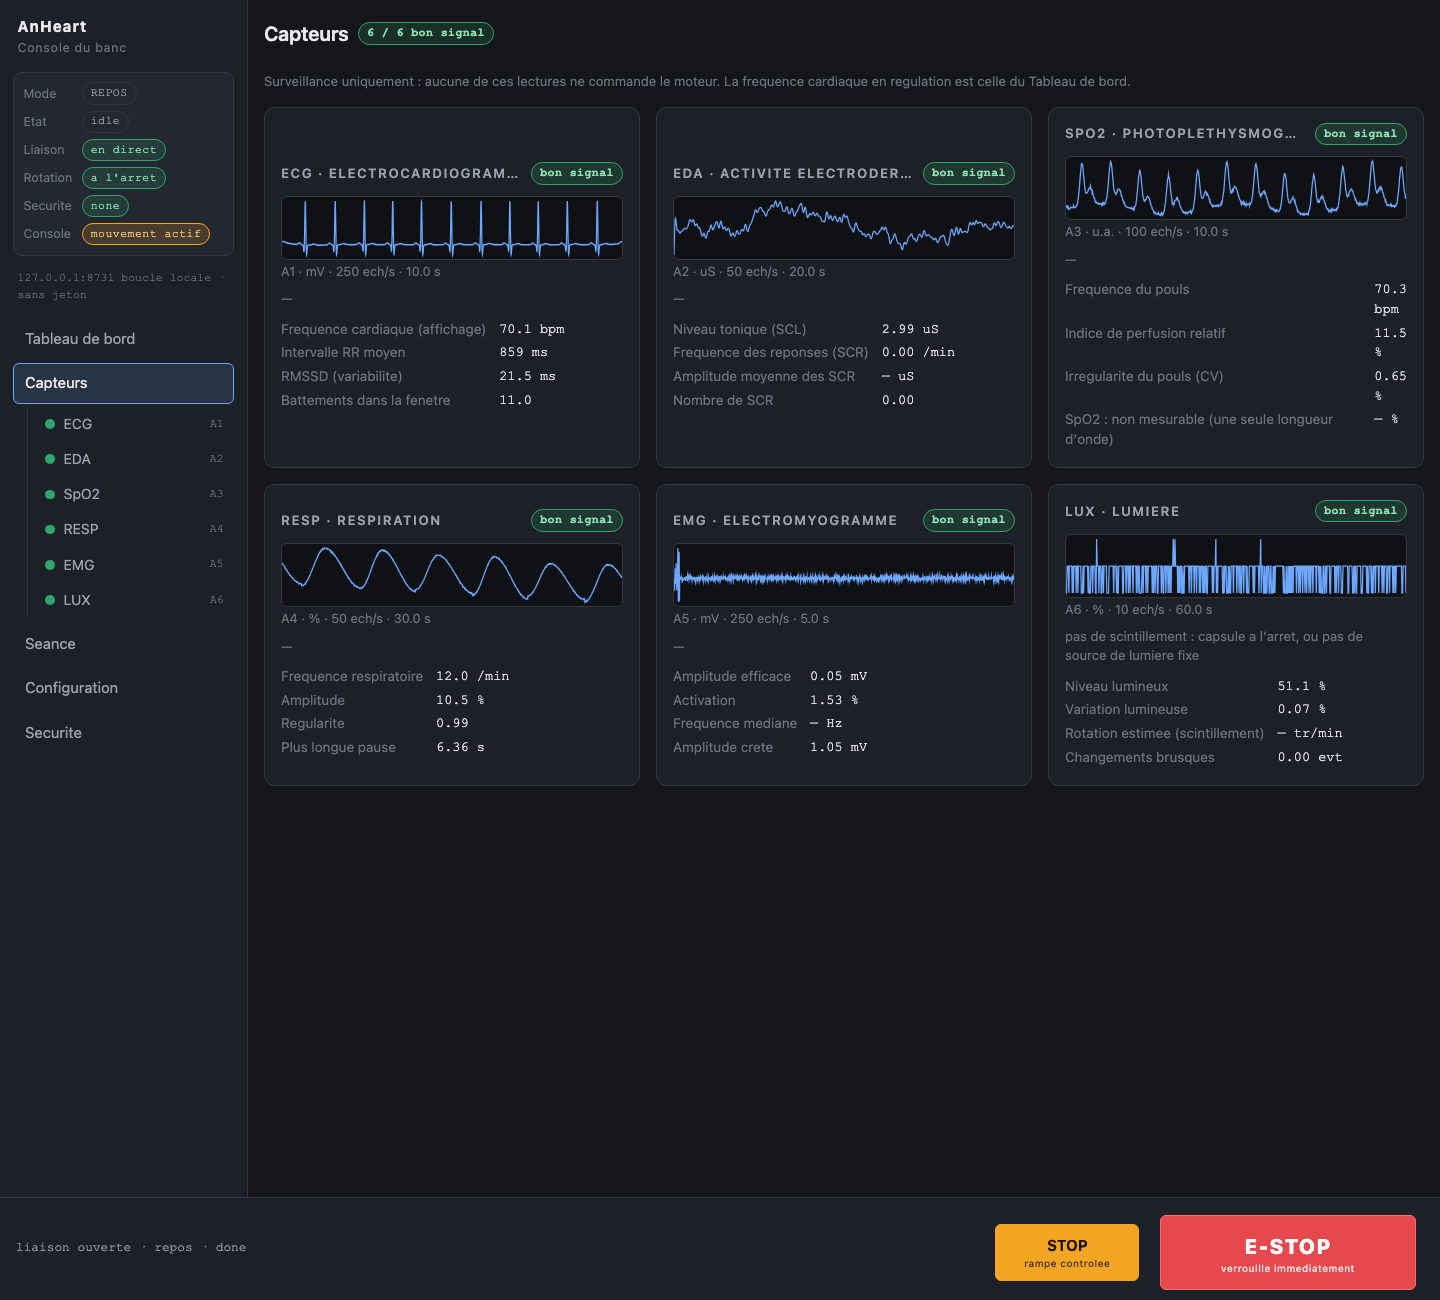
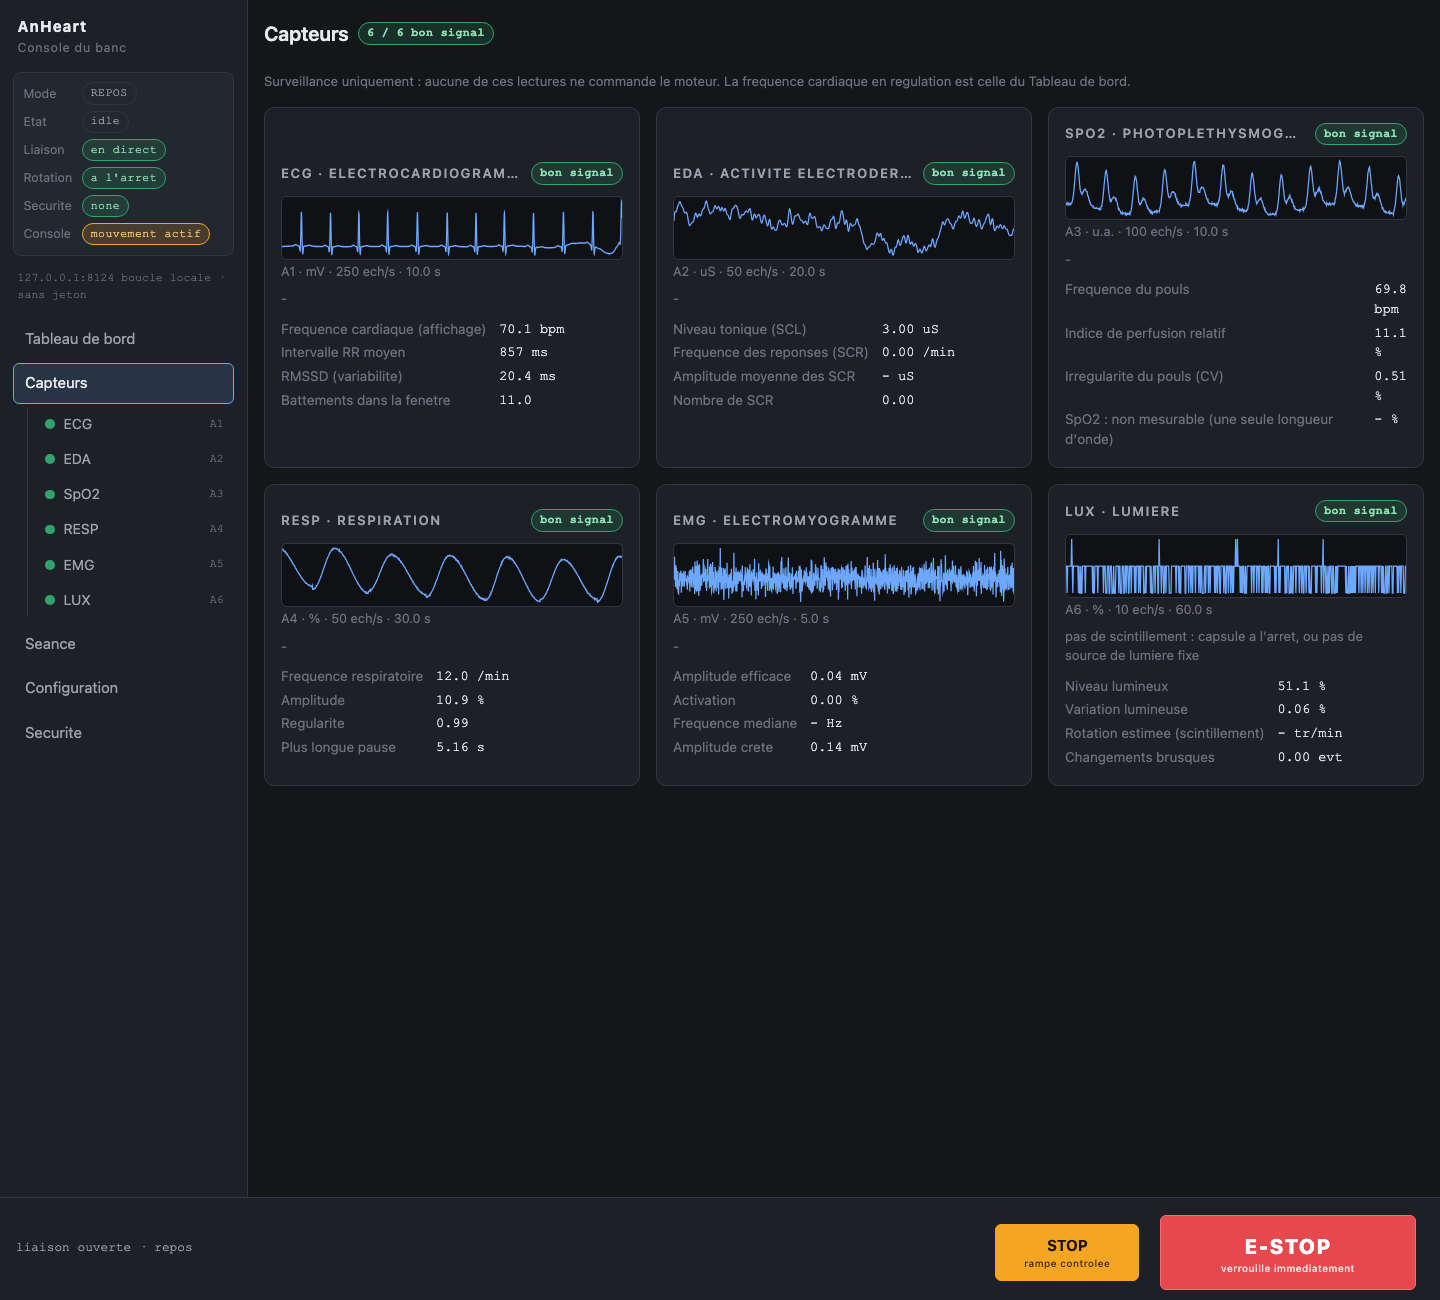
ANH-124: reprendre les captures du guide de la console et son texte
Treize captures reprises en simulation avec la page corrigée, sous les
mêmes noms et aux mêmes dimensions : console-01 à console-06 et
console-12 à console-18. Elles ont été prises sur le port 8124, que leur
barre latérale affiche ; l'annexe du guide le dit.

Le texte du guide ne décrit plus les défauts corrigés (bandeau d'arrêt
d'urgence, pastille de fréquence cardiaque, ligne « e-stop verrouille »,
texte de défaut, note de Previsualiser, phase au repos, titre de l'onglet)
et cite les valeurs des nouvelles captures.

Claude-Session: https://claude.ai/code/session_018Ts4jw4jdys1GjuaxDSDEw

diff --git a/docs/guides/guide-console-locale.md b/docs/guides/guide-console-locale.md
@@ -290,10 +290,13 @@ Repères de la capture (barre latérale, de haut en bas) :
 5. **Rotation** (`a l'arret`) : lu sur la vitesse **mesurée**.
 6. **Securite** (`none`) : action de sécurité en cours.
 7. **Console** (`mouvement actif`) : cette console peut commander le moteur.
-8. Ligne `127.0.0.1:8731 boucle locale · sans jeton` : adresse d'écoute et protection.
+8. Ligne `127.0.0.1:8124 boucle locale · sans jeton` : adresse d'écoute et protection.
+   Le port est celui de `UI_PORT` : 8731 avec la commande du §3.2, 8124 le jour où
+   cette capture a été reprise (voir l'annexe).
 9. Navigation : **Tableau de bord**, **Capteurs** (avec un point de couleur par
    capteur, et son canal `A1` à `A6`), **Seance**, **Configuration**, **Securite**.
-10. Pied de page, à gauche : `liaison ouverte · repos · done` (liaison, mode, phase).
+10. Pied de page, à gauche : `liaison ouverte · repos` (liaison et mode). Pendant une
+    séance, la phase s'ajoute : par exemple `liaison ouverte · manuel · hold`.
 11. **STOP** (orange, « rampe controlee ») et **E-STOP** (rouge, « verrouille
     immediatement »).
 
@@ -436,7 +439,8 @@ Repères :
 séance programmée. `age` = âge de la mesure en secondes (barré si trop vieille, plus
 de 4 s environ), `brut` = dernière valeur calculée, `seq` = numéro de la mesure.
 Pastille de qualité : `good`, `noisy`, `mains_dominated` (parasite secteur),
-`no_signal`, ou `pas de signal`.
+`no_signal`, ou `pas de signal`. Dès que la mesure est trop vieille, la pastille
+passe à `perime` (rouge), quelle que soit la dernière qualité connue.
 
 **Vitesse mesuree** : la vitesse lue sur le variateur, en cinq unités, plus le courant
 moteur en ampères.
@@ -561,9 +565,11 @@ Repères, carte **Programme** (à gauche) :
 3. **Operateur** : obligatoire.
 4. **Age du passager (ans, obligatoire)** : vide ou inférieur à 18 ans = refus.
 5. **Previsualiser** : calcule le programme **sans rien démarrer**.
-6. **Demarrer la seance** : démarre. Il est actif seulement si `PROGRAMS_ENABLED=true`
-   (sur la capture, prise avant une correction du code, il apparaît grisé).
-7. Note sous les boutons, quand les séances programmées sont désactivées :
+6. **Demarrer la seance** : démarre. Il est actif seulement si `PROGRAMS_ENABLED=true`,
+   une fois l'attestation faite et la machine au repos (c'est le cas sur la capture).
+7. Notes sous les boutons : la réponse au dernier clic (sur la capture,
+   `plan resolu ; rien n'a ete demarre` après **Previsualiser**) et, sur sa propre
+   ligne quand les séances programmées sont désactivées,
    `seances programmees desactivees sur cette console (jalon M5) : utiliser le mode MANUEL`.
 
 Repères, carte **Ce que ce programme ferait** (à droite) :
@@ -583,12 +589,12 @@ Repères, carte **Ce que ce programme ferait** (à droite) :
 > **Bouton « Demarrer la seance » grisé.** La page active ce bouton seulement si la
 > console dit que les séances programmées sont autorisées (`PROGRAMS_ENABLED=true`).
 > Un défaut du code le laissait toujours grisé : il est **corrigé** (1er octobre 2026,
-> `src/local_panel.py`), mais les captures de ce guide ont été prises avant.
+> `src/local_panel.py`). Les captures des séances en cours (`console-10`,
+> `console-19`) ont été prises avant : la note « desactivees » y figure encore.
 
-> Attention aussi : le message `plan resolu ; rien n'a ete demarre` affiché après
-> **Previsualiser** est remplacé au bout de quelques secondes par la note
-> « desactivees » (rafraîchie toutes les 5 s). La prévisualisation a bien eu lieu :
-> regardez le tableau des phases.
+> Le message `plan resolu ; rien n'a ete demarre` affiché après **Previsualiser**
+> reste sous les boutons jusqu'au clic suivant : la note « desactivees » ne le
+> remplace plus.
 
 Constat sur ce profil : son plafond (276 tr/min moteur = 5,54 tr/min = 0,052 g) est
 très bas. En simulation, la fréquence cardiaque reste sous la zone visée (compteur
@@ -709,7 +715,7 @@ Repères :
 Repères :
 
 1. Pastille verte `atteste`.
-2. Sous le bouton : `atteste par Mohamed a 12:31:48 AM (valable jusqu'au prochain redemarrage du Pi)`.
+2. Sous le bouton : `atteste par Mohamed a 6:40:07 PM (valable jusqu'au prochain redemarrage du Pi)`.
 3. Sous **Acquitter**, en rouge : `nothing is latched to acknowledge` (un essai
    d'acquittement alors que rien n'était verrouillé : sans conséquence).
 
@@ -721,11 +727,13 @@ Repères :
 
 1. Pastille rouge `quick_stop`.
 2. `regle operator_estop`, `detail operator emergency stop: console web: e-stop`,
-   `verrouille oui`, `depuis 27.4 s`.
+   `verrouille oui`, `depuis 27.5 s`.
 3. `e-stop verrouille OUI` (en rouge), `verdict retenu operator_estop / quick_stop`.
 4. Barre latérale : Etat `stopping` **en rouge** alors que Rotation est `a l'arret` et
    Mode `REPOS` : la machine est arrêtée, mais verrouillée.
 5. Le champ nom est rempli, la case du coup de poing **pas encore cochée**.
+6. En haut, le bandeau rouge **ARRET D'URGENCE VERROUILLE** : il reste tant que le
+   verdict n'est pas acquitté, machine arrêtée ou non (§13.5).
 
 ### Les champs de la carte Verdict
 
@@ -735,7 +743,7 @@ Repères :
 | `detail` | la phrase explicative |
 | `verrouille` | `oui` : ne s'efface que par un acquittement nommé |
 | `depuis` | depuis combien de secondes |
-| `e-stop verrouille` | l'E-STOP de la page (ou d'un autre écran) est verrouillé |
+| `e-stop verrouille` | un arrêt d'urgence est verrouillé : E-STOP de la page ou d'un autre écran, ou arrêt déclenché par la caméra. Quand la ligne dit `OUI`, l'acquittement exige la case du coup de poing |
 | `verdict retenu` | le verdict qui attend un acquittement |
 | `plancher verrouille` | le verdict verrouillé le plus sévère d'une source secondaire (par exemple la caméra) |
 | `regles actives` | nombre de règles qui se déclenchent en ce moment, listées en dessous |
@@ -973,7 +981,7 @@ E-STOP, pas à pas :
 1. En cas de danger : **coup de poing câblé**.
 2. Cliquez **E-STOP** (aucune question ne sera posée).
 3. La pastille **Securite** passe à `quick_stop` (rouge) et **Etat** à `stopping` en
-   rouge.
+   rouge. Un bandeau rouge **ARRET D'URGENCE VERROUILLE** apparaît en haut de la page.
 4. Surveillez **Vitesse mesuree** : la machine décélère, elle n'est pas arrêtée tout
    de suite (constaté : de 25,8 à 12,5 tr/min en environ 4 s, puis arrêt complet
    quelques secondes plus tard, en simulation).
@@ -984,15 +992,18 @@ E-STOP, pas à pas :
 Repères :
 
 1. Securite `quick_stop` et Etat `stopping` en rouge.
-2. Vitesse mesurée `12.53`, `EN ROTATION` : ça ralentit.
+2. Vitesse mesurée `12.71`, `EN ROTATION` : ça ralentit.
 3. La note de la carte manuelle, `no manual session is running (the machine is stopping)`,
    vient d'un clic sur **Appliquer** pendant l'arrêt : plus aucune cible n'est acceptée.
+4. En haut, le bandeau rouge **ARRET D'URGENCE VERROUILLE**.
 
-> Écart constaté : le code prévoit d'afficher dans le bandeau rouge du haut
-> `ARRET D'URGENCE VERROUILLE (quick_stop) - surveillez la vitesse MESUREE : la machine decelere, elle n'est pas arretee`.
-> En pratique ce bandeau est effacé en moins d'une demi seconde par la vérification
-> de fraîcheur des données (il ne reste affiché que si la liaison est coupée). Ne
-> comptez pas sur lui : regardez les pastilles **Securite** et **Etat**.
+> Le bandeau rouge du haut,
+> `ARRET D'URGENCE VERROUILLE surveillez la vitesse MESUREE : verrouille ne veut pas dire arrete`,
+> reste affiché tant que le verdict d'arrêt d'urgence est verrouillé, sur toutes les
+> pages et sur tous les écrans ouverts, que l'arrêt vienne de l'E-STOP ou de la
+> caméra (rejoué en simulation), ou d'une autre règle qui demande `quick_stop`
+> (d'après le code, non rejoué). Il ne dit pas que la machine est arrêtée : seule la
+> vitesse **mesurée** le dit. Il disparaît après l'acquittement (§13.6).
 
 ### 13.6 Acquitter un verdict de sécurité
 
@@ -1011,7 +1022,8 @@ Rien ne l'efface tout seul.
    cette case, le refus est : `the emergency stop is still latched: confirm the mushroom has been pulled back out (estop_released) before acknowledging`.
 7. Cliquez **Acquitter**.
 8. Vérifiez la note : `acquitte par <nom> : operator_estop` (liste des règles
-   effacées) et l'état revenu à `idle`.
+   effacées), l'état revenu à `idle` et, après un arrêt d'urgence, le bandeau rouge
+   disparu.
 
 Cas particulier : un verdict `go_silent` ne s'acquitte pas. Le message dit
 `... demanded GO_SILENT, which is one-way ...`. Il faut vérifier que la machine est
@@ -1032,12 +1044,15 @@ Repères :
 
 1. Securite `quick_stop`, règle `operator_estop`, détail
    `operator emergency stop: camera presence: personne detectee (confiance 0.95, a 0.8 m du bras) dans la zone du bras alors que la machine tourne : arret d'urgence`.
-2. `plancher verrouille presence_intrusion / quick_stop`.
+2. `e-stop verrouille OUI` (en rouge) et
+   `plancher verrouille presence_intrusion / quick_stop`.
 3. Caméra : `demarrage bloque (sim_empty)`, avec
    `demarrage refuse : arret presence verrouille (presence_intrusion), acquittement nomme requis`
    et `Verdict verrouille : presence_intrusion - acquitter dans Securite apres verification.`
 4. Après relance de la page, les deux cases de l'attestation apparaissent décochées,
    mais la pastille dit `atteste` : c'est la pastille qui fait foi.
+5. En haut, le bandeau rouge **ARRET D'URGENCE VERROUILLE**, comme après un E-STOP de
+   la page.
 
 Que faire :
 
@@ -1050,9 +1065,9 @@ Que faire :
 5. La carte caméra doit revenir à `zone degagee`. La console exige que la zone soit
    vue dégagée pendant un moment avant d'accepter un démarrage.
 
-Écart constaté : dans ce cas, la ligne `e-stop verrouille` affiche `non`, alors que
-l'acquittement exige quand même la case du coup de poing. Fiez-vous à la ligne
-`regle`.
+Dans ce cas, la ligne `e-stop verrouille` affiche `OUI` : l'arrêt déclenché par la
+caméra est un arrêt d'urgence comme celui de la page, et son acquittement exige la
+case du coup de poing.
 
 Autres refus de la caméra constatés : avec `PRESENCE_SOURCE=sim_occupied` (passager
 vu dans la capsule), une séance **BANC** est refusée :
@@ -1067,11 +1082,11 @@ vu dans la capsule), une séance **BANC** est refusée :
 Repères :
 
 1. Carte **BITalino** : pastille rouge `deconnecte`, `tentatives` qui monte (la console
-   réessaie toutes les 5 s environ), `dernier lot 13.9 s`, `erreur` :
+   réessaie toutes les 5 s environ), `dernier lot 14.3 s`, `erreur` :
    `connexion au BITalino impossible (sim)`.
-2. Carte **Frequence cardiaque (regulation)** : valeur absente, `age` barré (14,7 s).
-   Attention, la pastille de qualité reste `good` : c'est la **dernière** qualité
-   connue, pas l'état actuel (écart constaté).
+2. Carte **Frequence cardiaque (regulation)** : valeur absente, `age` barré (14,4 s),
+   pastille rouge `perime` : la mesure est trop vieille, quelle qu'ait été sa dernière
+   qualité.
 3. Barre latérale : les points des six capteurs deviennent creux et gris (périmés).
 4. **Vitesse mesuree** `5.00` : en séance manuelle de banc, la perte de l'ECG
    **n'arrête pas** la machine (Securite reste `none`). La vitesse manuelle ne dépend
@@ -1103,8 +1118,7 @@ Repères :
 1. Carte **Variateur**, pastille rouge `fault`.
 2. `LFT brut 18` : le code brut lu sur le variateur.
 3. Encadré rouge : `DEFAUT ObF (LFT brut 18) : surtension du bus continu au freinage : ...`
-   suivi du même texte répété (le message complet contient la signification deux fois,
-   c'est un défaut d'affichage).
+   (le code, puis ce qui s'est passé et quoi faire).
 4. Bouton **Reset defaut variateur**.
 5. Barre latérale : Securite `ramp_down` (règle `drive_fault`, verrouillée).
 
@@ -1163,10 +1177,10 @@ Repères :
 
 1. Bandeau rouge **NO LIVE DATA** : `la liaison avec la machine est coupee - la machine tourne peut-etre encore`.
 2. Liaison `hors ligne`, pastilles Mode, Rotation, Securite **barrées**.
-3. Grands nombres barrés (`87`, `0.00`) : ce sont les dernières valeurs connues, pas
+3. Grands nombres barrés (`71`, `0.00`) : ce sont les dernières valeurs connues, pas
    les valeurs actuelles.
 4. Points des capteurs creux et gris.
-5. Pied de page : `liaison coupee`.
+5. Pied de page : `liaison coupee · repos`.
 
 Que faire :
 
@@ -1362,9 +1376,11 @@ les motifs libres d'arrêt. Les traces nominatives d'attestation et d'acquitteme
 du câblage restent distinctes. Le détail autorisé du verdict reste disponible
 dans la console ; les logs ne sont pas un dossier de santé.
 
-**Le bandeau rouge « ARRET D'URGENCE VERROUILLE » n'est pas apparu après E-STOP.**
-C'est un écart connu (§13.5) : il est effacé aussitôt. La pastille **Securite**
-`quick_stop` et **Etat** `stopping` rouge suffisent.
+**Le bandeau rouge « ARRET D'URGENCE VERROUILLE » reste affiché alors que la machine
+est arrêtée.**
+C'est voulu (§13.5) : il reste tant que le verdict est verrouillé et disparaît après
+l'acquittement (§13.6). Pour savoir si la machine est arrêtée, lisez **Rotation** et
+**Vitesse mesuree**.
 
 **La fréquence cardiaque disparaît quand ça tourne vite (simulation).**
 Constaté à 27 tr/min : le signal ECG simulé devient `noisy`. Sur la vraie machine, le
@@ -1393,9 +1409,10 @@ Jamais en même temps que la console sur le même câble.
 Normal : le logiciel ne voit pas ce contact. C'est pour cela que l'acquittement vous
 demande de **déclarer** qu'il a été tiré.
 
-**L'onglet du navigateur s'appelle « Console du banc - AnHeart » et la page
-« Tableau de bord ».**
-C'est la même chose.
+**L'onglet du navigateur change de nom.**
+Il porte le nom de la page affichée : `Tableau de bord - AnHeart`,
+`Securite - AnHeart`, etc. « Console du banc », dans la barre latérale, est le nom de
+la console.
 
 ## 16. Ce qui n'est pas testé sur la vraie machine
 
@@ -1410,7 +1427,8 @@ Pour être clair sur ce que ce guide garantit :
   une vraie image.
 * **Personne à bord** : refusée par configuration (jalon M6). La séance programmée n'a
   été conduite qu'en simulation, avec un passager simulé.
-* **Bouton « Demarrer la seance »** : corrigé après les captures, non rejoué dans la page.
+* **Bouton « Demarrer la seance »** : corrigé ; il apparaît actif sur la capture
+  `console-18`, reprise depuis, mais le clic n'a pas été rejoué dans la page.
 * **Démarrage sur le Pi** (§3.4) : tiré de la configuration et du fichier
   `scripts/anheart.service`, non rejoué ; le service n'a pas été installé ni activé
   pour ce guide.
@@ -1452,3 +1470,9 @@ Pour être clair sur ce que ce guide garantit :
 Pour les captures, la console a été lancée par un petit script hors dépôt qui appelle
 `src.local_panel.main()` sans rien modifier et permet d'injecter, dans le **simulateur**
 seulement, un défaut variateur, une déconnexion du BITalino ou une intrusion caméra.
+
+Les captures `console-01` à `console-06` et `console-12` à `console-18` ont été
+reprises le 5 octobre 2026, après les corrections d'affichage de la page, en rejouant
+les mêmes procédures en simulation, sur le port 8124 : leur barre latérale affiche
+`127.0.0.1:8124`. Les autres, plus anciennes, affichent `127.0.0.1:8731`, le port de
+la commande du §3.2.
